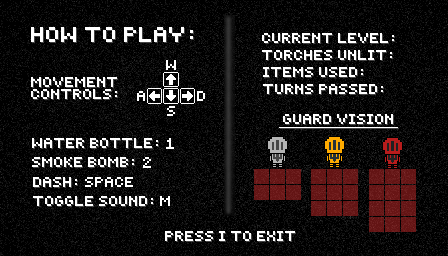
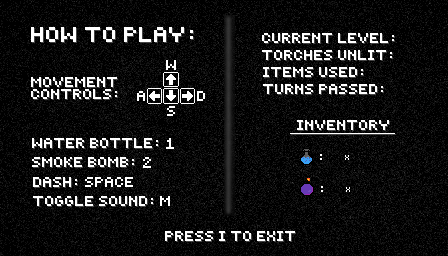
added inventory

Changed region(s): [[0.5625, 0.4375, 0.9375, 0.9062]]

diff --git a/intheshadows/print.py b/intheshadows/print.py
@@ -44,7 +44,7 @@ def display_help(width, height, resolution, screen):
     screen.foreground_surface.blit(screen.help_surface, (width // 4, height // 4))
 
 
-def display_info(width, height, screen, level, num_torches, num_items, turns_passed):
+def display_info(width, height, screen, level, num_torches, num_items, turns_passed, num_bottles, num_bombs):
     background = pygame.image.load(Path(__file__).parent / "assets/graphics/Backgrounds/Info_screen.png")
     background = pygame.transform.scale(background, (width // 2, height // 2))
     font = pygame.font.Font(Path(__file__).parent / 'assets/fonts/Minecraftia-Regular.ttf', int(height // 2 * 0.05))
@@ -65,11 +65,21 @@ def display_info(width, height, screen, level, num_torches, num_items, turns_pas
     num_turns_rect = num_turns.get_rect()
     num_turns_rect.x, num_turns_rect.y = (9.65 * width // 11 // 2, 2.51 * height // 8 // 2)
 
+    num_water_bottles = font.render(str(num_bottles), True, (255, 255, 255))
+    num_water_bottles_rect = num_water_bottles.get_rect()
+    num_water_bottles_rect.x, num_water_bottles_rect.y = (8.75 * width // 11 // 2, 4.68 * height // 8 // 2)
+
+    num_smoke_bombs = font.render(str(num_bombs), True, (255, 255, 255))
+    num_smoke_bombs_rect = num_smoke_bombs.get_rect()
+    num_smoke_bombs_rect.x, num_smoke_bombs_rect.y = (8.75 * width // 11 // 2, 5.68 * height // 8 // 2)
+
     screen.help_surface.blit(background, (0, 0))
     screen.help_surface.blit(curr_level, curr_level_rect)
     screen.help_surface.blit(torches_unlit, torches_unlit_rect)
     screen.help_surface.blit(items_used, items_used_rect)
     screen.help_surface.blit(num_turns, num_turns_rect)
+    screen.help_surface.blit(num_water_bottles, num_water_bottles_rect)
+    screen.help_surface.blit(num_smoke_bombs, num_smoke_bombs_rect)
     screen.foreground_surface.blit(screen.help_surface, (width // 4, height // 4))
 
 

diff --git a/intheshadows/game.py b/intheshadows/game.py
@@ -939,7 +939,7 @@ class Game:
                 case 'help':
                     display_help(self.__width, self.__height, self.__resolution, self.__screen)
                 case 'inventory':
-                    display_info(self.__width, self.__height, self.__screen, self.__level, 0, 0, 0)
+                    display_info(self.__width, self.__height, self.__screen, self.__level, 0, 0, 0, 999, 999)
                     '''
                     TODO: Add some sort of data structure to store player inventory and pass it to display_inventory
                     also have it track what items are used etc
